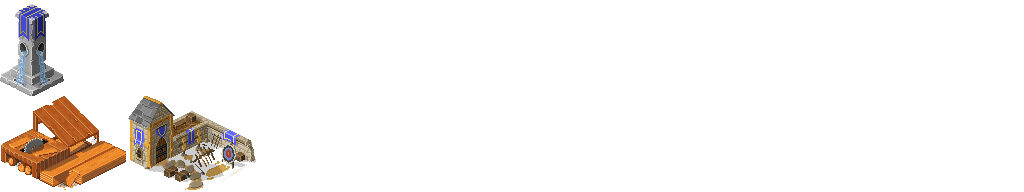
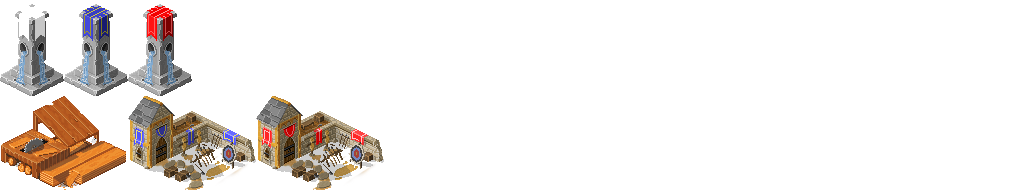
Added the fountains

Changed region(s): [[0.0, 0.0312, 0.1875, 0.5], [0.25, 0.5, 0.375, 1.0]]

diff --git a/js/display.js b/js/display.js
@@ -3,8 +3,8 @@ Responsible for drawing on the client's window
 */
 
 // Load the textures
-tileSizeTerrain = { "x" : 64, "y" : 48, "dx" : 32, "dy" : 16 }
-tileSizeObstacles = { "x" : 64, "y" : 32, "dx" : 32, "dy" : 16 }
+var tileSizeTerrain = { "x" : 64, "y" : 48, "dx" : 32, "dy" : 16 }
+var tileSizeObstacles = { "x" : 64, "y" : 32, "dx" : 32, "dy" : 16 }
 var terrainTiles = new Image()
 terrainTiles.src = 'img/terrain_tiles.png'
 
@@ -48,15 +48,14 @@ function drawTile( sprite, tileSize, f, tsx, tsy, tx, ty, wx, wy ) {
 	);
 }
 
+// Determine the factor
+var f = 1
+
+if (engine.mapSize * tileSizeTerrain.x > canvasWidth * 0.9) {
+	f = (canvasWidth * 0.9) / (engine.mapSize * tileSizeTerrain.x)
+}
+
 function display() {
-	// Draw the map
-	var f = 1
-
-	if (engine.mapSize * tileSizeTerrain.x > canvasWidth * 0.9) {
-		// Need to be zoomed out
-		f = (canvasWidth * 0.9) / (engine.mapSize * tileSizeTerrain.x)
-	}
-
 	var type, obstacle, unit
 	var k, i, j, m, M
 
@@ -91,9 +90,11 @@ function display() {
 			building = engine.buildingMap[i][j]
 
 			if (building) {
+				offset = (building.size - 1) * 0.5
 				drawTile( buildingSprite, tileSizeObstacles, f,
-					building.size, 1+building.size, building.id, 2-building.size,
-					i-0.5, j+0.5 )
+					building.size, 3,
+					(building.id % 8) * building.size, 3 * Math.floor(building.id / 8),
+					i-offset, j+offset )
 			}
 		}
 	}

diff --git a/js/engine.js b/js/engine.js
@@ -4,7 +4,7 @@ The Engine handles the game rules and update its state
 
 function Engine( gameConstants ) {
 	// Initialize the map
-	this.mapSize = gameConstants["map_size"]
+	this.mapSize = Math.floor(gameConstants["map_size"] / 2.0) * 2 + 1
 
 	this.terrainMap = []
 	this.obstacleMap = []
@@ -24,10 +24,15 @@ function Engine( gameConstants ) {
 					this.obstacleMap,
 					this.unitMap,
 					this.buildingMap,
-					this.mapSize )
+					this.mapSize,
+					gameConstants["fountain_radius"] )
 
-	// console.log(this.addBuilding( 1, 1, 0, 0 ))
+	console.log(this.addBuilding( 1, 1, 9, 0 ))
+	console.log(this.addBuilding( 10, 10, 8, 0 ))
 }
+
+// Get the input, check the rules and list the changes to be handled
+Engine.prototype.
 
 // Add a building to the map if possible
 Engine.prototype.addBuilding = function ( x, y, id, side ) {
@@ -37,14 +42,14 @@ Engine.prototype.addBuilding = function ( x, y, id, side ) {
 	// Test if possible
 	if ( id < 8 ) {
 		// 2x2 square
-		size = 2
+		size = 1
 
 		if ( !this.isNothing(x, y, 2, this.mapSize) ) {
 			return false
 		}
 	} else if ( id < 16 ) {
 		// 1x1 square
-		size = 1
+		size = 2
 
 		if ( !this.isNothing(x, y, 1, this.mapSize) ) {
 			return false

diff --git a/js/mapgeneration.js b/js/mapgeneration.js
@@ -16,7 +16,7 @@ function isWaterNearby( map, i, j, mapSize, sandId ) {
 	return false
 }
 
-function generateMap( terrainMap, obstacleMap, unitMap, buildingMap, mapSize ) {
+function generateMap( terrainMap, obstacleMap, unitMap, buildingMap, mapSize, fountainRadius ) {
 	// Constants for terrain generation
 	baseZoomLevel = 80.0
 	detailZoomLevel = 60.0
@@ -127,4 +127,26 @@ function generateMap( terrainMap, obstacleMap, unitMap, buildingMap, mapSize ) {
 		obstacleMap[px][py] = 0
 		obstacleMap[qx][qy] = 0
 	}
+
+	// The fountains
+	function addFountain(x, y) {
+		buildingMap[x][y] = new Building( 0, 0, { "x" : x, "y" : y}, 1 )
+
+		for (var i = -fountainRadius; i <= fountainRadius; i++) {
+
+			for (var j = -fountainRadius; j <= fountainRadius; j++) {
+
+				if ( i*i + j*j <= fountainRadius * fountainRadius ) {
+					terrainMap[x + i][y + j] = 16
+				}
+			}
+		}
+	}
+
+	var off = Math.max(Math.floor(mapSize / 6), fountainRadius)
+	addFountain(off,off)
+	addFountain(off,mapSize - off - 1)
+	addFountain(mapSize - off - 1, off)
+	addFountain(mapSize - off - 1, mapSize - off - 1)
+	addFountain(Math.floor(mapSize / 2), Math.floor(mapSize / 2))
 }

diff --git a/js/game.js b/js/game.js
@@ -2,7 +2,9 @@
 The main loop of the game, calls for updates
 */
 
-gameConstants = { "map_size" : 50 }
+gameConstants = { "map_size" : 37,
+ 					"fountain_radius" : 2
+}
 
 var engine = new Engine( gameConstants )
 
